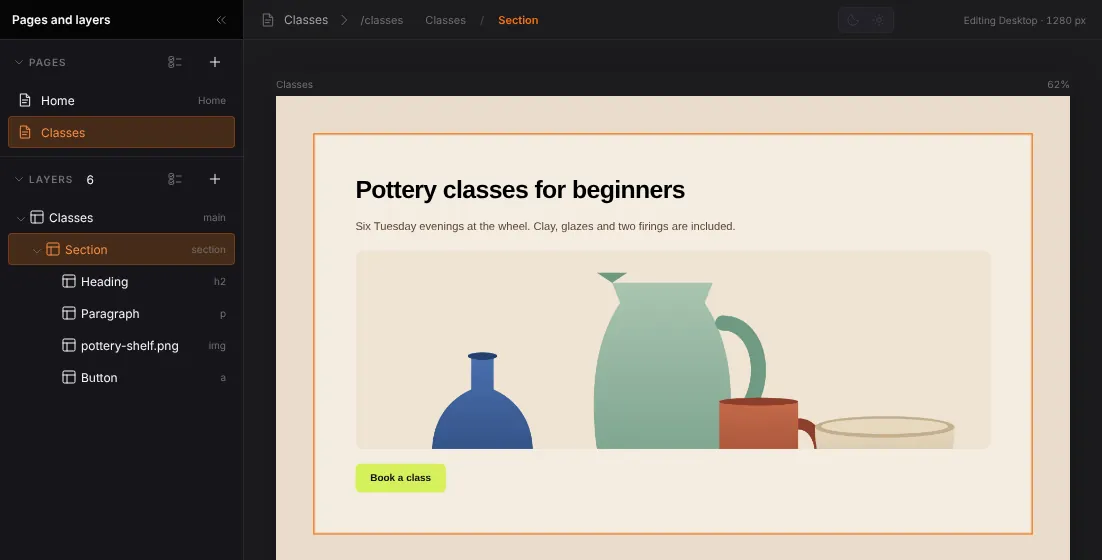
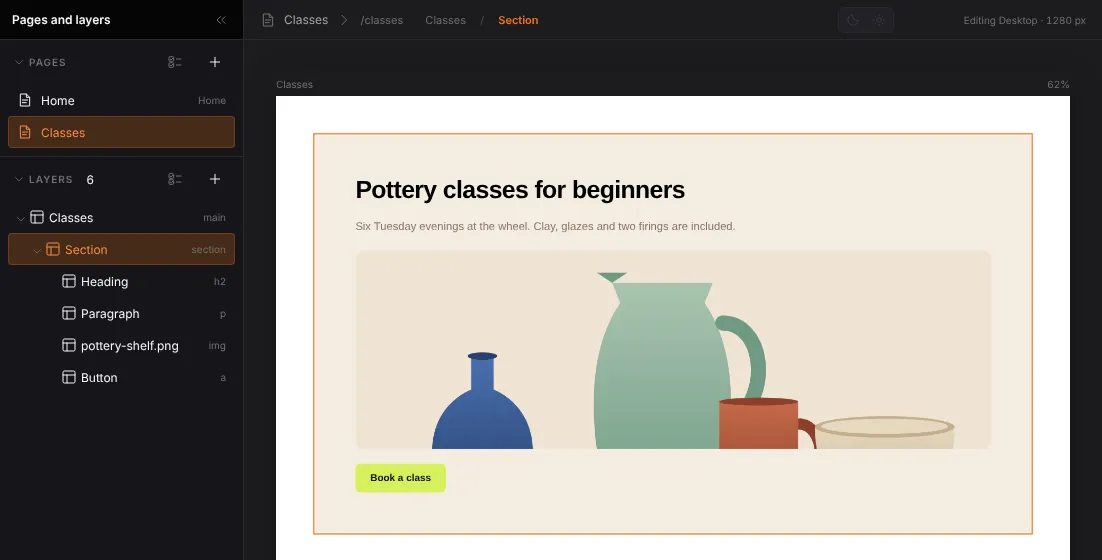
docs(guide): Your first site checked step by step after the Section change: the new section has no color of its own, step 6 finds the 64 px it starts with, step 8 sets the site background, and the audit counts the picture's alt text; pictures retaken

Changed region(s): [[0.2468, 0.1518, 0.9873, 1.0], [0.3394, 0.3946, 0.6479, 0.425]]

diff --git a/docs/guide/01-first-site.md b/docs/guide/01-first-site.md
@@ -35,7 +35,7 @@ The new page opens on the canvas. It is completely white: a new page has no back
 You add everything from the **+** in the **LAYERS** heading. It opens Quick insert, a short list of elements, sections and components.
 
 1. Click the **+** to the right of **LAYERS**.
-2. Click **Section**. A dark grey section appears on the page and is selected.
+2. Click **Section**. An empty section appears on the page and is selected. It has space inside it but no color of its own: it shows the page behind it, so what you put in it is readable on a light page and on a dark one.
 
 ![The Quick insert list open under the plus button of the Layers heading, with a filter field and the elements Section, Heading, Paragraph, Button, Image, Grid, Form, Link, Embed and Video, then the sections Navigation bar, Hero, Feature grid and more](images/first-site-quick-insert.webp)
 
@@ -46,9 +46,9 @@ You add everything from the **+** in the **LAYERS** heading. It opens Quick inse
 
 Each new element goes at the end of the section, after the element that was added last, so add them in the order you want them. You can always move them later (see [Pages and layers](02-pages-and-layers.md)).
 
-![The Classes page with a dark section holding the heading "A new perspective", the text "Write something worth reading.", the pottery picture and a yellow Get started button; the Layers list shows Classes, Section, Heading, Paragraph, pottery-shelf.png and Button](images/first-site-inserted.webp)
+![The white Classes page with the section holding the heading "A new perspective" in black, the grey text "Write something worth reading.", the pottery picture and a yellow Get started button; the Layers list shows Classes, Section, Heading, Paragraph, pottery-shelf.png and Button](images/first-site-inserted.webp)
 
-The heading is hard to read: dark text on a dark section. You fix that in step 5.
+The heading and the text take the page's text color, black on this white page. You give the section and the text colors of their own in step 5.
 
 Typing a few letters in the filter field at the top of Quick insert narrows the list. Up and Down move through it, and Enter inserts.
 
@@ -70,11 +70,11 @@ The right panel has hundreds of settings. You do not need to know where each one
 1. In the Layers list, click **Section**.
 2. Click **Search properties** and type `background`. The list shows the matching settings, grouped by tab and section.
 3. Press Enter, or click **Background**. The panel jumps to the Background field and puts the cursor in it.
-4. Select what is in the field, type `#f4ece1` and press Enter. The section turns light.
+4. Select what is in the field, type `#f4ece1` and press Enter. The section turns a light beige.
 
-![The right panel with background typed in Search properties; the results list Design > Appearance with Background and Color, then Page > Page background](images/first-site-search-background.webp)
+![The right panel with background typed in Search properties; the results list Design > Appearance with Background and Color, then Page > Page background with Page background, Site background and more](images/first-site-search-background.webp)
 
-Now the paragraph text is too pale. Give it a darker color:
+Now give the paragraph a warm brown that goes with the beige:
 
 1. In the Layers list, click **Paragraph**.
 2. In Search properties type `colour` (either spelling works).
@@ -83,11 +83,13 @@ Now the paragraph text is too pale. Give it a darker color:
 
 You can type a color as `#5b4636`, as a name such as `white`, or as one of the site's own colors such as `var(--paper)` (see [Page background and theme colors](05-background-and-theme-colors.md)).
 
-## 6. Add space inside the section
+## 6. Check the space inside the section
+
+A new section starts with 64 px of space inside it, its padding. To see it or change it:
 
 1. Click **Section** in the Layers list.
-2. In Search properties type `padding` and press Enter.
-3. Type `64px` and press Enter.
+2. In Search properties type `padding` and press Enter. The Padding field reads `64px`.
+3. To change it, type another value, such as `48px`, and press Enter. This walkthrough keeps `64px`.
 
 ![The Layout fields of the right panel: Gap reads 24px and Padding reads 64px, both with a Reset link](images/first-site-padding.webp)
 
@@ -95,16 +97,16 @@ The **Reset** link next to a field removes your value, so the field goes back to
 
 ## 7. Check the result on the canvas
 
-![The Classes page on the canvas: a light section with the heading Pottery classes for beginners, the paragraph, the pottery picture and the Book a class button, on a beige page; the Section layer is selected](images/first-site-result.webp)
+![The Classes page on the canvas: a light beige section with the heading Pottery classes for beginners, the brown paragraph, the pottery picture and the Book a class button, on the white page; the Section layer is selected](images/first-site-result.webp)
 
-## 8. Set the page background
+## 8. Set the site background
 
-1. Choose **Page > Page background...**. The right panel opens the **Page** tab at its Page background field.
-2. Type `#e9dccb` and press Enter.
+1. Choose **Page > Page background...**. The right panel opens the **Page** tab at its Page background section. It offers three choices: **Site background** (chosen, because Classes has no background of its own), **Same as another page...** and **This page only**.
+2. The cursor is in **Site background colour**. Type `#e9dccb` and press Enter. The status line says "Site background #e9dccb created. "Classes" uses it, and new pages start with it."
 
-![The Page background part of the Page tab: Background reads #e9dccb with a Clear link, a note saying this page uses #e9dccb and Clear returns it to the site background, white, the browser default, then the Match another page list, the Apply to all pages button and the Edit site theme colors link](images/first-site-page-background.webp)
+![The Page background part of the Page tab: Site background is chosen, Site background colour reads #e9dccb, the note says 1 of 2 pages use the site background and new pages start with it, then the Use the site background on all pages button and the Edit site theme colors link](images/first-site-page-background.webp)
 
-This colors this page only. **Apply to all pages** gives every page the same background, and **Match another page** copies another page's background onto this one. [Page background and theme colors](05-background-and-theme-colors.md) explains the rest.
+The site background is one color for the whole site. Every page you add from now on starts with it, and changing it here changes every page that uses it. **Use the site background on all pages** puts Home on it too. To give Classes a color of its own instead, choose **This page only**. [Page background and theme colors](05-background-and-theme-colors.md) explains the rest.
 
 ## 9. See it as a visitor would
 
@@ -123,9 +125,9 @@ On the phone the 64 px padding leaves little room for the text. [The right panel
 
 1. Click **Audit** at the right end of the second row of the top bar. The SEO & accessibility audit lists what it found on the whole site.
 
-![The SEO & accessibility audit dialog: 6 issues found. Home needs a meta description; Home has 0 h1 headings, prefer one; Classes needs a meta description; Classes has 0 h1 headings, prefer one; Link needs a destination; Set the real public base URL before deployment. Each row has a Select button](images/first-site-audit.webp)
+![The SEO & accessibility audit dialog: 7 issues found. Home needs a meta description; Home has 0 h1 headings, prefer one; Classes needs a meta description; Classes has 0 h1 headings, prefer one; Link needs a destination; Image needs alt text; Set the real public base URL before deployment. Each row has a Select button](images/first-site-audit.webp)
 
-The first two issues are on the empty Home page; the next three are on your Classes page.
+The first two issues are on the empty Home page; the next four are on your Classes page.
 
 2. Click **Select** next to "Classes needs a meta description". The dialog closes, the **Page** tab opens, and the **Description** field is outlined with the cursor in it. The status line says "Selected Classes: Classes needs a meta description", and a notice at the bottom right repeats it, with **Show again** to come back here later.
 
@@ -133,9 +135,9 @@ The first two issues are on the empty Home page; the next three are on your Clas
 
 3. Type a sentence that describes the page, for example `Beginner pottery classes on Tuesday evenings at Mill Lane: six weeks at the wheel, clay and firings included.`
 4. Press Tab to keep it.
-5. Click **Audit** again. It now says 5 issues found.
+5. Click **Audit** again. It now says 6 issues found.
 
-To fix the others later: select the heading and set **HTML tag** (Design tab, Element section) to `h1`; give Home a heading and a description the same way when you build it; give the button somewhere to go with **Link URL** on the Content tab (search `href`); and see [Audit](07-audit.md) for the base URL.
+To fix the others later: select the heading and set **HTML tag** (Design tab, Element section) to `h1`; give Home a heading and a description the same way when you build it; give the button somewhere to go with **Link URL** on the Content tab (search `href`); describe the picture for people who cannot see it with **Alternative text** (search `alt`); and see [Audit](07-audit.md) for the base URL.
 
 ## 11. Export the site
 
